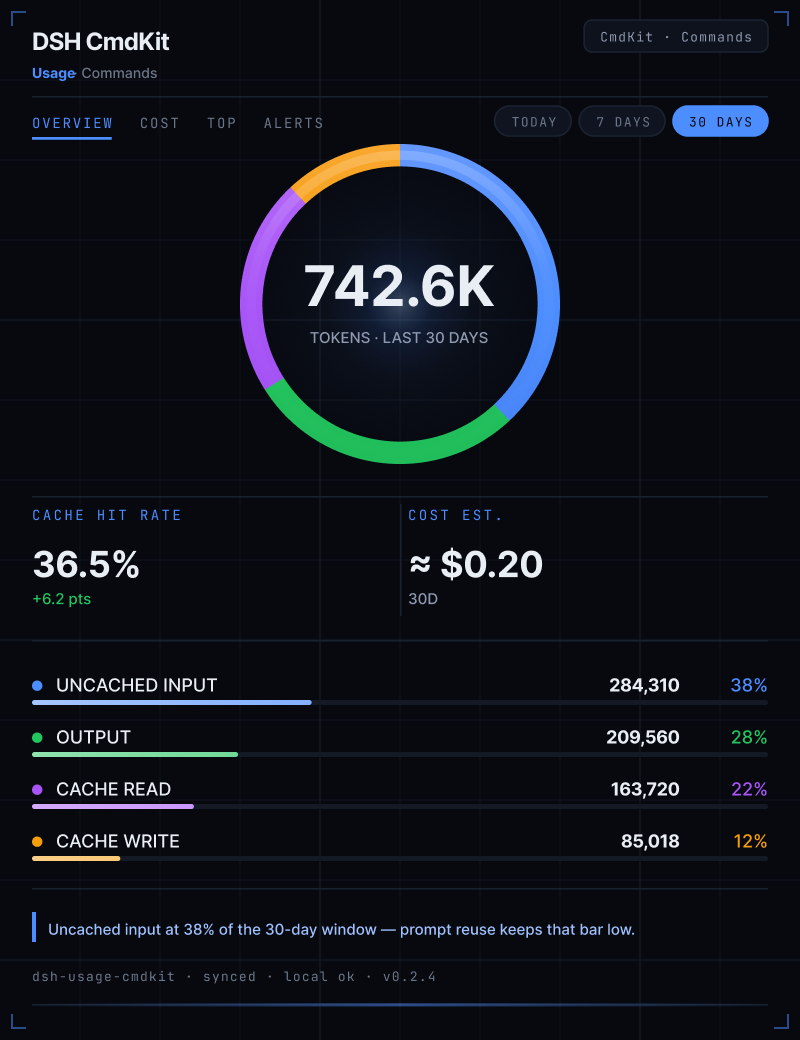
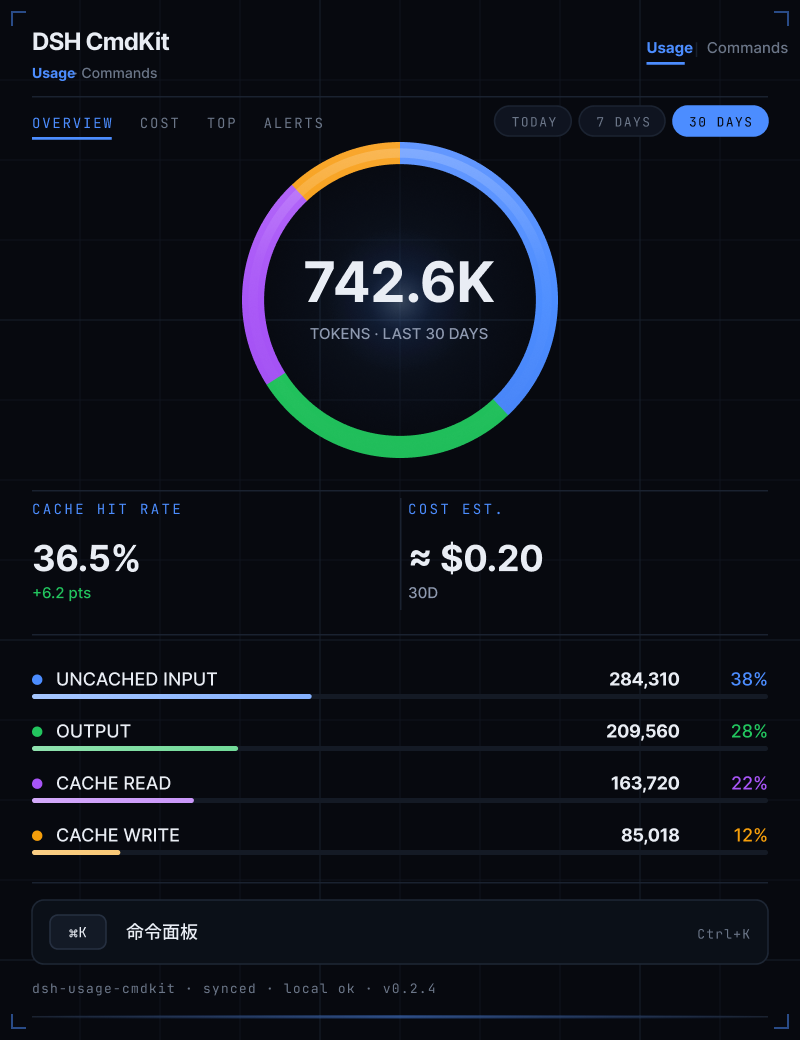
design: 更新 v4 四档成图，动效说明对齐新的品牌头与切换器位置
设计侧改动：Usage | Commands 切换器统一提到右上；D 档顶栏右侧换成 ⌘K
芯片，全屏下的全局命令入口由芯片承担；B / C 档去掉与右上重复的左上副标题；
sparkline 加了填充区。

动效说明相应更新：品牌头、切换器、⌘K 芯片三者的入场方式保持一致，都走淡入
加 6px 上移，不因位置变化而换动作；填充区在描线结束后才淡入，不与描线同时
进行。

diff --git a/design/motion-spec.md b/design/motion-spec.md
@@ -41,7 +41,7 @@
 | 时间 | 元素 | 变化 |
 |------|------|------|
 | 0.00s | 外框 + 四角角标 | 透明度 0→1；同时整体缩放 0.98→1.00（200ms，缓出） |
-| 0.08s | 品牌头（DSH CmdKit / Usage · Commands） | 上移 6px→0 + 淡入（180ms） |
+| 0.08s | 品牌头（DSH CmdKit / Usage · Commands）、顶栏 ⌘K 芯片、左列标题「Usage」与其切换器 | 三处各自上移 6px→0 + 淡入（180ms，彼此错峰 40ms） |
 | 0.15s | 主视图 Tab（OVERVIEW / COST / TOP / ALERTS） | 下划线自左端生长至满宽（240ms）；文字淡入 |
 | 0.20s | 时间窗药丸（TODAY / 7 DAYS / 30 DAYS） | 上移 8px→0 + 淡入（200ms） |
 | 0.28s | KPI 左（CACHE HIT RATE） | 上浮 8px→0 + 淡入（180ms） |
@@ -58,7 +58,7 @@
 | 0.76s | 环弧 · 橙（缓存写入 12%） | 生长至约 43°（230ms） |
 | 0.54s | 环心大数字 | 0 递增至目标总量（设计稿参考值 742.6K）（440ms，缓出，末位直接落位不滚动小数位） |
 | 0.60s | 环心副标（TOKENS · LAST 30 DAYS） | 淡入（160ms） |
-| 0.72s | 日均 sparkline | 路径自左端按点序描出（380ms，线性） |
+| 0.72s | 日均 sparkline | 路径自左端按点序描出（380ms，线性）；描线结束后填充区淡入（120ms） |
 | 0.78s | 峰值标注 44.6K | 淡入（150ms） |
 | 0.78s | TOP 3 三行 | 依次上浮 8px + 淡入，行间错峰 40ms |
 | 0.86s | ALERTS 胶囊 ×3 | 自右轻滑 12px + 淡入（200ms）；`RATE LIMITED` 项追加一次描边脉冲后静止 |
@@ -79,7 +79,7 @@
 | 时间 | 元素 | 变化 |
 |------|------|------|
 | 0.00s | 外框 + 四角角标 | 透明度 0→1 + 缩放 0.98→1.00（200ms） |
-| 0.08s | 品牌头 + 主视图 Tab + 时间窗药丸 | **合并为同一组**，整体上移 6px→0 + 淡入（200ms） |
+| 0.08s | 品牌头（DSH CmdKit / Usage · Commands）、右上 Usage \| Commands 切换器、主视图 Tab、时间窗药丸 | **合并为同一组**，整体上移 6px→0 + 淡入（200ms） |
 | 0.24s | KPI 左 / 右 | 上浮 8px→0 + 淡入（170ms，两枚间错峰 40ms） |
 | 0.30s | 环轨 | 透明度 0→1（130ms） |
 | 0.34s | 环弧 · 蓝 | 描边生长 160ms |
@@ -213,7 +213,9 @@
 ### 6.3 元素级的分辨率差异
 
 - **环形外侧百分比标签**（38% / 28% / 22% / 12%）**只在 A 档与 D 档存在**，B 档与 C 档的环上没有外标签——这两档**不做标签生长动效**，环只表达总量与配比。
-- **品牌头**在 A / B 档位于左上（其下为 `Usage · Commands` 切换），C / D 档位于顶栏右侧。两种位置**各自的出现方式保持一致**：都是淡入 + 6px 上移，不因位置变化而换动作。
+- **品牌头**：A 档在左上，副标题即 `Usage · Commands`；B / C 档左上只留 `DSH CmdKit`，切换器统一提到右上；D 档顶栏右侧换成 **⌘K 芯片**，`Usage | Commands` 切换器下移到左列标题旁。品牌头、切换器与 ⌘K 芯片**各自的出现方式保持一致**：都是淡入 + 6px 上移，不因位置变化而换动作。
+- **⌘K 芯片**只出现在 D 档，是全屏下唯一的全局命令入口。它本身不参与入场编排的额外动作——芯片的亮起只发生在**键盘唤出**时，走 §3 的面板时序。
+- **sparkline 填充区**只在 D 档存在（宽版加项），描线结束后才淡入，不能与描线同时进行。
 
 ---
 
